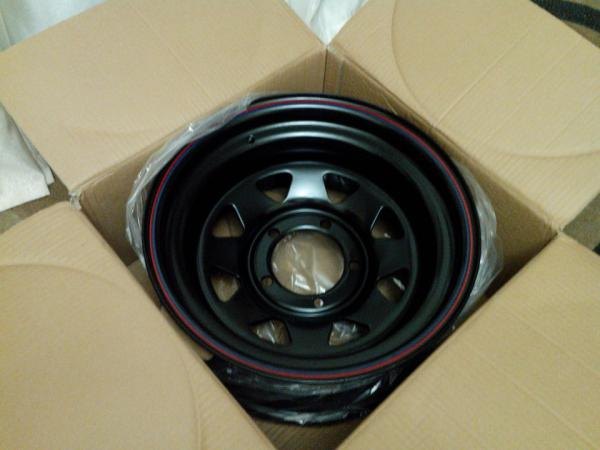
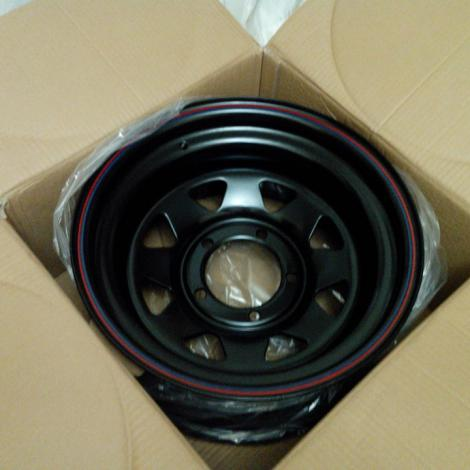
глюки фоток в каталоге

diff --git a/application/views/client/product.php b/application/views/client/product.php
@@ -21,7 +21,7 @@
 			<div class="page-product__top">
 				<div class="page-product__images product-images">
 					<div class="product-images__big-image-box">
-						<a href="<?=$content->img[0]->catalog_big_url?>" class="product-images__href fancyimage" data-fancybox-group="big">
+						<a href="<?=$content->img[0]->full_url?>" class="product-images__href fancyimage" data-fancybox-group="big">
 							<img    src="<?=$content->img[0]->catalog_big_url?>" 
                                     width="470" 
                                     height="470" 
@@ -29,7 +29,7 @@
                                     class="product-images__big-image"/>
 						</a>
 						<?if(isset($content->img[1])):?>
-						<a href="<?=$content->img[1]->catalog_big_url?>" class="product-images__href fancyimage" data-fancybox-group="big">
+						<a href="<?=$content->img[1]->full_url?>" class="product-images__href fancyimage" data-fancybox-group="big">
 							<img    src="<?=$content->img[1]->catalog_big_url?>" 
                                     width="470" 
                                     height="470" 
@@ -44,7 +44,7 @@
 							<?foreach($content->img as $images):?>
 								<li class="product-images-thumbs__item">
 									<a  href="<?=$images->catalog_big_url?>"
-										data-full-image="<?=$images->catalog_big_url?>"
+										data-full-image="<?=$images->full_url?>"
 										class="product-images-thumbs__href">
 											<img src="<?=$images->catalog_small_url?>" alt="image" class="product-images-thumbs__image" />
 									</a>

diff --git a/application/models/db/images.php b/application/models/db/images.php
@@ -160,7 +160,7 @@ class Images extends MY_Model
 	{
 		if ($is_cover == FALSE)
 		{
-			$images = $this->get_list(array('object_id' => $object_info['object_id'], 'object_type' => $object_info['object_type']));
+			$images = $this->get_list(array('object_id' => $object_info['object_id'], 'object_type' => $object_info['object_type']), FALSE, FALSE, "is_cover", "desc");
 			foreach($images as $key => $item)
 			{
 				if(!empty($item))
@@ -200,7 +200,10 @@ class Images extends MY_Model
 			$url_name = $path."_url";
 			if(!empty($image)) $image->$url_name = $this->get_url($image->url, $path);
 		}
-		return $image;
+		//Путь к полному изображению
+		
+		if(!empty($image)) $image->full_url = $this->get_url($image->url);
+		return $image; 
 	}
 	
 	public function get_img_list($info, $object_type)
@@ -252,12 +255,12 @@ class Images extends MY_Model
 		return $img->object_id;
 	}
 	
-	public function get_url($url, $path)
+	public function get_url($url, $path = FALSE)
 	{
 		$item_url = array();
 		$item_url = NULL;
 		$item_url[] = $url;
-		$item_url[] = $path;
+		if($path) $item_url[] = $path;
 		$item_url[] = "images";
 		$item_url[] = "download";
 		$full_url = implode("/", array_reverse($item_url));

diff --git a/application/config/upload_config.php b/application/config/upload_config.php
@@ -4,27 +4,31 @@ $config['upload_path'] = FCPATH.'download/images';
 
 $config['thumb_config'] = array(
 	"catalog_big" => array(
-		'w' => 600,
-		'h' => 600,
-		//'far' => 1,
+		'w' => 470,
+		'h' => 470,
+		'zc' => 1,
+		'far' => 1,
 		"bg" => "ffffff"
 	),
 	"catalog_mid" => array(
-		'w' => 400,
-		'h' => 400,
-		//'far' => 1,
+		'w' => 225,
+		'h' => 170,
+		'zc' => 1,
+		'far' => 1,
 		"bg" => "ffffff"		
 	),
 	"catalog_small" => array(
 		'w' => 100,
 		'h' => 100,
-		//'far' => 1,
+		'zc' => 1,
+		'far' => 1,
 		"bg" => "ffffff"	
 	),
 	"slider" => array(
 		'w' => 1600,
 		'h' => 352,
-		//'far' => 1,
+		'zc' => 1,
+		'far' => 1,
 		"bg" => "ffffff"	
 	)
 );
